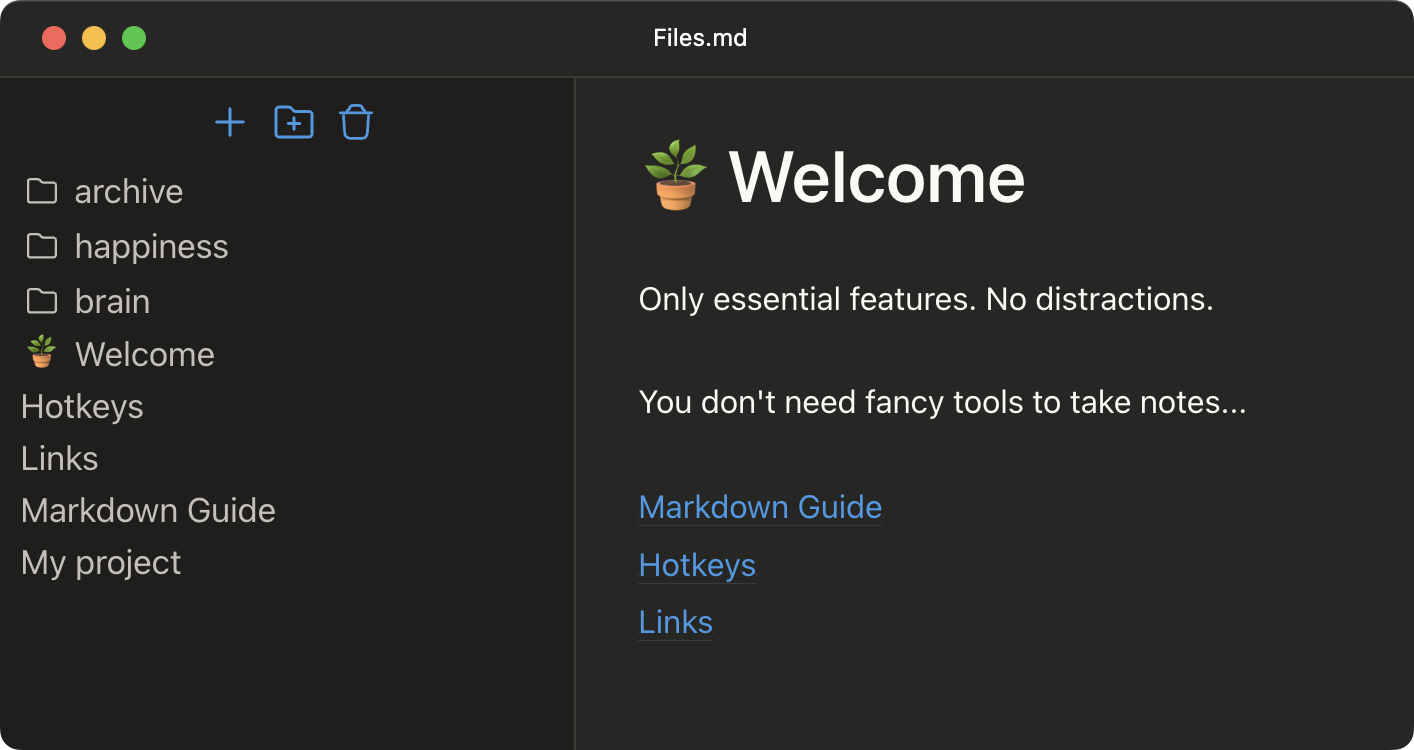
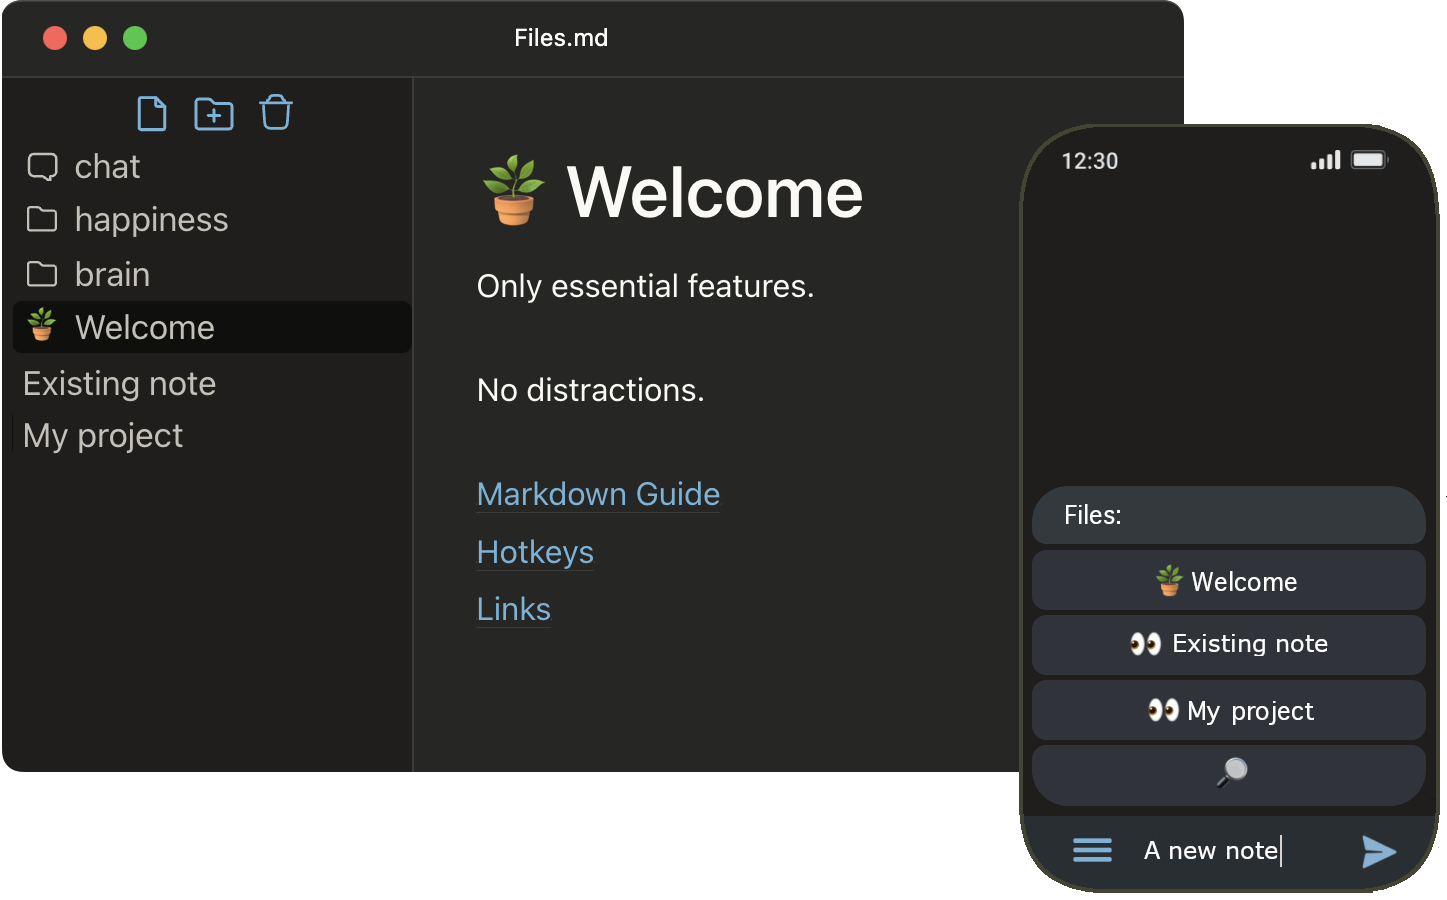
add open folder separate cta

diff --git a/web/app.css b/web/app.css
@@ -91,6 +91,31 @@ body {
     line-height: 1.3;
 }
 
+/* CTA shown at the bottom of the sidebar while we're on the in-memory FS,
+   so first-time users have an obvious way to connect a real folder.
+   Toggled to display:flex from app.js when isMemFS is true. */
+#open-folder {
+    align-items: center;
+    gap: 8px;
+    margin: 8px;
+    padding: 10px 12px;
+    background: var(--col-bg);
+    border: 1px solid var(--col-border);
+    border-radius: 6px;
+    cursor: pointer;
+    font-size: calc(1.4rem);
+    color: var(--col-tx);
+}
+
+#open-folder:hover {
+    background: var(--col-bg-active);
+}
+
+#open-folder svg {
+    flex-shrink: 0;
+    stroke: var(--col-tx-alt);
+}
+
 #content {
     overflow: auto;
     width: 100%;

diff --git a/web/index.html b/web/index.html
@@ -80,13 +80,19 @@
                 <path d="M8 8H8.01M8 12H8.01M16 12H16.01M16 8H16.01M16 16H16.01M8 16H8.01M7.2 20H16.8C17.9201 20 18.4802 20 18.908 19.782C19.2843 19.5903 19.5903 19.2843 19.782 18.908C20 18.4802 20 17.9201 20 16.8V7.2C20 6.0799 20 5.51984 19.782 5.09202C19.5903 4.71569 19.2843 4.40973 18.908 4.21799C18.4802 4 17.9201 4 16.8 4H7.2C6.0799 4 5.51984 4 5.09202 4.21799C4.71569 4.40973 4.40973 4.71569 4.21799 5.09202C4 5.51984 4 6.07989 4 7.2V16.8C4 17.9201 4 18.4802 4.21799 18.908C4.40973 19.2843 4.71569 19.5903 5.09202 19.782C5.51984 20 6.07989 20 7.2 20Z" stroke-width="1.5" stroke-linecap="round" stroke-linejoin="round"/>
             </svg>
         </button>
-        <button id="open-folder" title="Open local folder" onClick="openDir()" style="display: none">
-            <svg xmlns="http://www.w3.org/2000/svg" width="24" height="24" fill="none" viewBox="0 0 32 32">
-                <path stroke-linecap="round" stroke-width="2" d="M28 11v13a2 2 0 01-2 2H6a2 2 0 01-2-2V8a2 2 0 012-2h6c3 0 3 3 5 3h9.003C27.108 9 28 9.895 28 11z"/>
-            </svg>
-        </button>
+<!--        <button id="open-folder" title="Open local folder" onClick="openDir()" style="display: none">-->
+<!--            <svg xmlns="http://www.w3.org/2000/svg" width="24" height="24" fill="none" viewBox="0 0 32 32">-->
+<!--                <path stroke-linecap="round" stroke-width="2" d="M28 11v13a2 2 0 01-2 2H6a2 2 0 01-2-2V8a2 2 0 012-2h6c3 0 3 3 5 3h9.003C27.108 9 28 9.895 28 11z"/>-->
+<!--            </svg>-->
+<!--        </button>-->
     </div>
     <div id="tree">
+    </div>
+    <div id="open-folder" onclick="openDir()" title="Open local folder" style="display: none">
+        <svg width="20" height="20" fill="none" viewBox="0 0 32 32" xmlns="http://www.w3.org/2000/svg">
+            <path stroke-linecap="round" stroke-width="2" d="M28 11v13a2 2 0 01-2 2H6a2 2 0 01-2-2V8a2 2 0 012-2h6c3 0 3 3 5 3h9.003C27.108 9 28 9.895 28 11z"/>
+        </svg>
+        <span>Open local folder</span>
     </div>
 </div>
 

diff --git a/web/app.js b/web/app.js
@@ -71,7 +71,7 @@ async function init() {
         isMemFS = false;
         document.getElementById('open-folder').style.display = 'none';
     } else {
-        document.getElementById('open-folder').style.display = 'inline';
+        document.getElementById('open-folder').style.display = 'flex';
         isMemFS = true;
     }
 
@@ -80,7 +80,7 @@ async function init() {
         const permission = await (await getRootDirHandle()).queryPermission({ mode: 'readwrite' });
         log('PERMISSION', permission);
         if (permission !== 'granted') {
-            document.getElementById('open-folder').style.display = 'inline';
+            document.getElementById('open-folder').style.display = 'flex';
             // TODO maybe ask user to check "Allow on every visit" on left part of the sidebar
             await removeSavedRootDirHandle();
             alert('Can\'t access folder.\n\nPlease, reopen the folder again and check "Allow on every visit" checkbox');

diff --git a/web/welcome.js b/web/welcome.js
@@ -196,7 +196,7 @@ const WELCOME_FILES = {
     },
     "🪴 Welcome.md": {
         "content":
-            "[Open local folder](cmd:openDir) to save changes.\n\n" +
+            "[Open or create folder](cmd:openDir) to save changes.\n\n" +
             "[Open chat](cmd:openChat) to dump whatever's on your mind.\n\n" +
             "[Markdown Guide](/Markdown%20Guide.md)\n[Hotkeys](/Hotkeys.md)\n[Links](/Links.md)",
         isFile: true,

diff --git a/README.md b/README.md
@@ -24,7 +24,7 @@ Open the chat, write a note and press `Enter`.
 </div>
 
 That's it. Nothing to learn or setup.  
-Later you can hover a note to move it to any folder.  
+Later you can hover the note to move it to any folder.  
 
 ## Another note-taking app?
 Maybe. But this time: 
@@ -47,9 +47,9 @@ Maybe. But this time:
 </div>  
 
 - Open a local folder to persist changes  
-- Occasionally hit force-refresh (`Cmd`+`Shift`+`R`) to get new updates.  
+- Occasionally hit force-refresh (`Cmd+Shift+R`) to get new updates.  
 
-## Telegram bot 🤖
+## Telegram bot
 1) Open [@FilesMDBot](https://t.me/FilesMDBot)
 2) Execute the `/app` command
 3) Open the link in your Chrome browser
@@ -102,7 +102,7 @@ All this activity helped me to:
 
 To achieve all that, **you'll have to use your brain**, not advanced templates or AI workflows.
 
-## Second Brain? 🧠
+## Second Brain?
 I'll quote [I Deleted My Second Brain](https://www.joanwestenberg.com/i-deleted-my-second-brain-692aa40d59d5f06dd5131e43/):
 
 > Obsidian is a brilliant piece of software. I love it, dearly. But like anything, without restraint, it can also be a trap. Markdown files in nested folders. Plugins that track your productivity. Graph views that suggest omniscience. There’s an illusion of mastery in watching your notes web into constellations. But constellations are projections. They tell stories. They do not guarantee understanding.